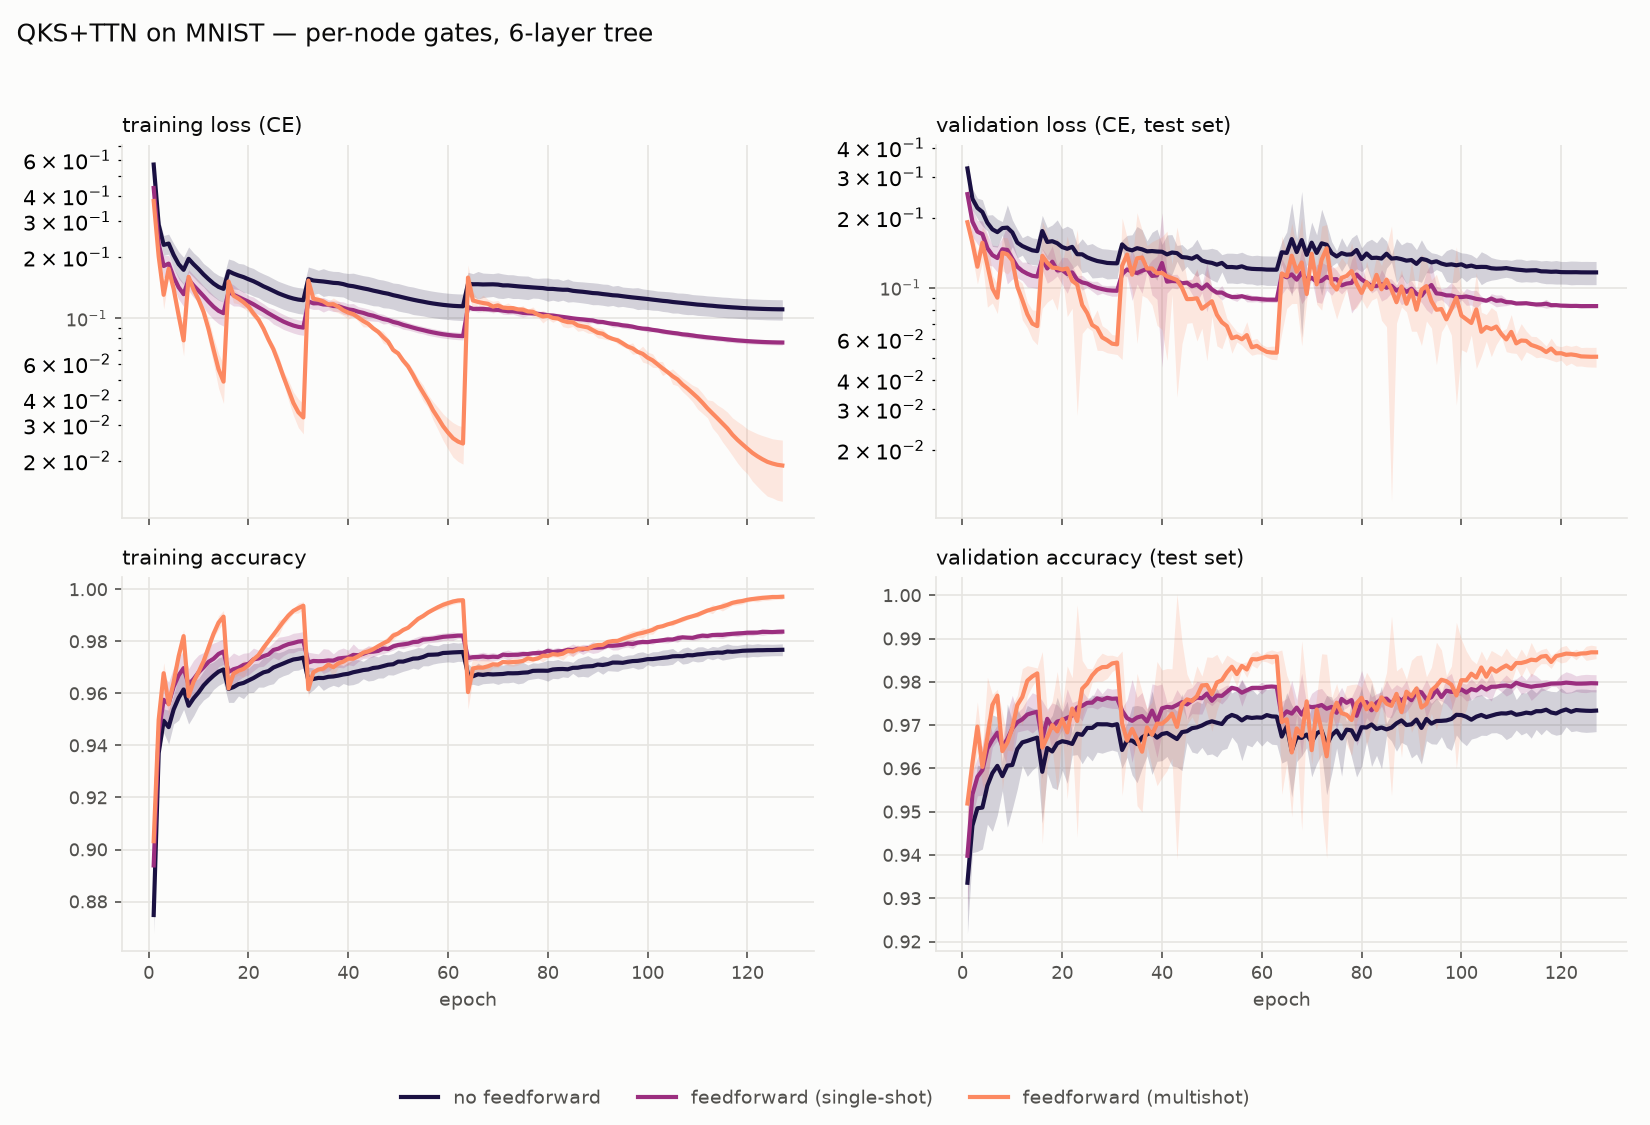
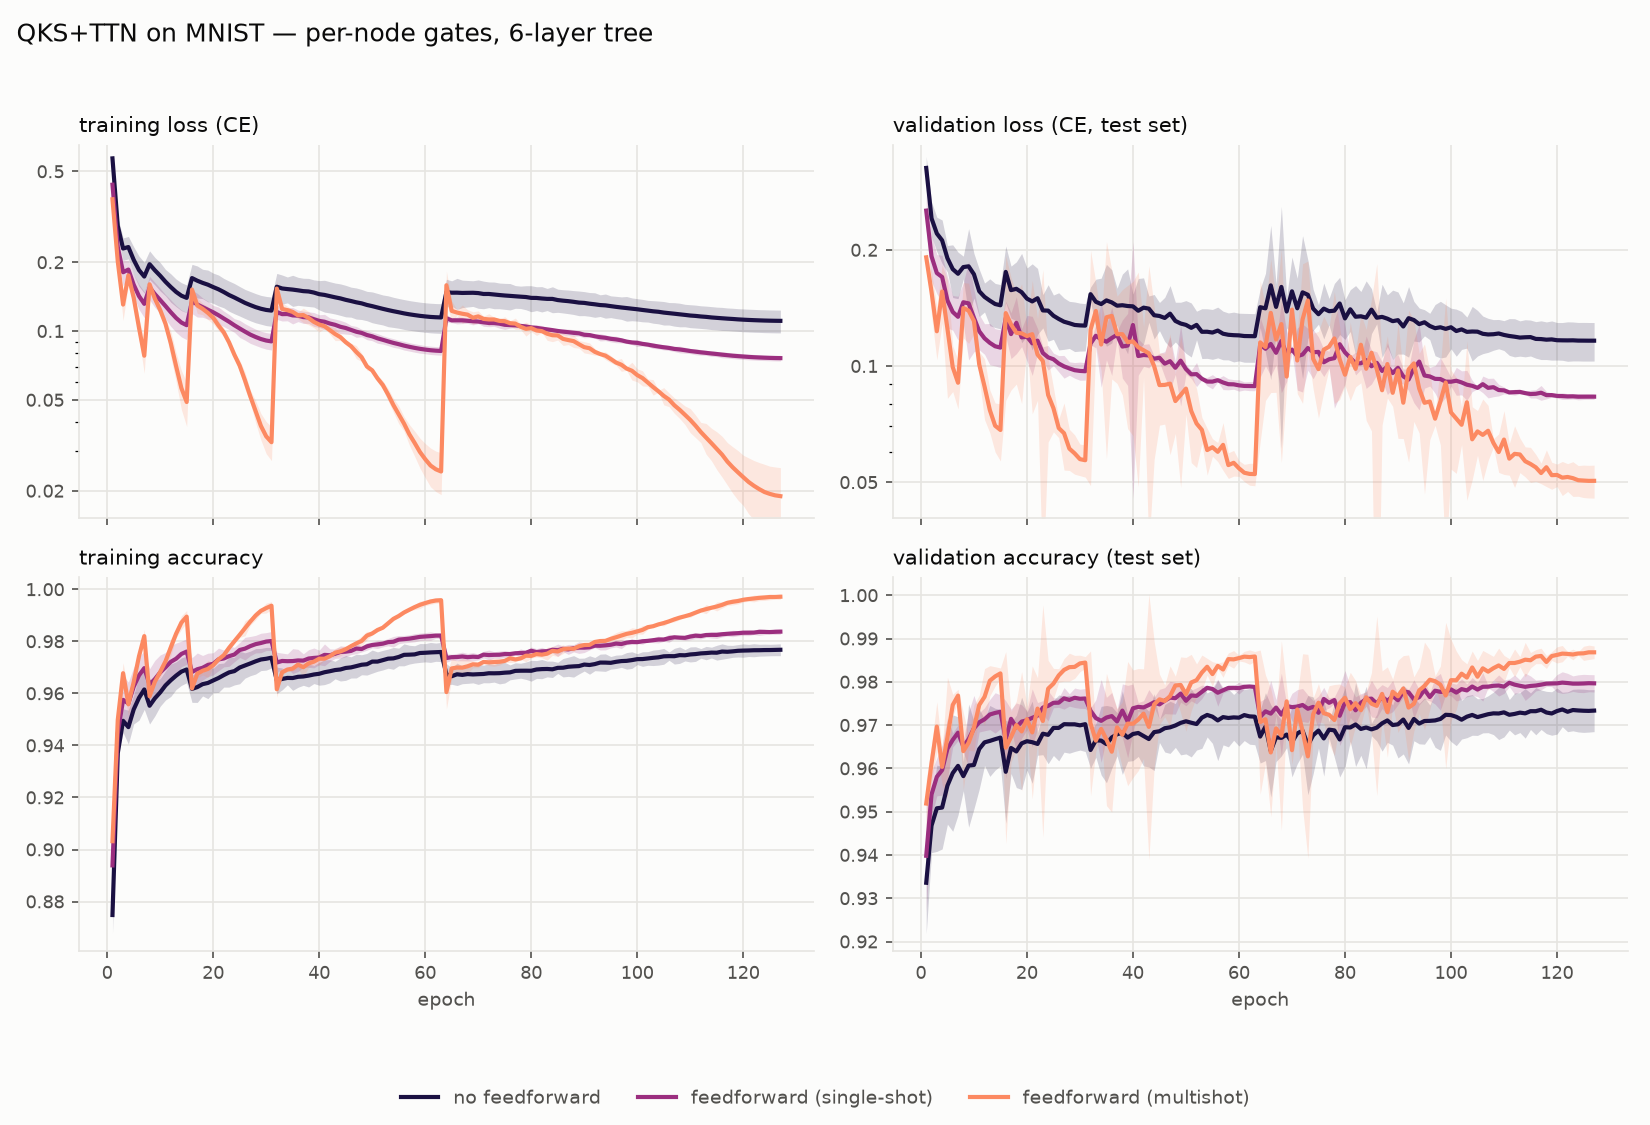
Loss panels: y-limits from the mean curves and 1-2-5 decimal log ticks (no more scientific-notation minor labels)

diff --git a/qks-tn-library/analyze_ff_runs.py b/qks-tn-library/analyze_ff_runs.py
@@ -233,6 +233,7 @@ def plot_curves(groups, out_prefix, facet_name, configs):
 
     matplotlib.use("Agg")
     import matplotlib.pyplot as plt
+    import matplotlib.ticker as mticker
     from scipy import stats as _st
 
     configs = [c for c in configs if c in groups]
@@ -255,6 +256,7 @@ def plot_curves(groups, out_prefix, facet_name, configs):
     handles = {}
     for ax, key, title in panels:
         ax.set_facecolor(surface)
+        mean_lo, mean_hi = np.inf, -np.inf
         for c in configs:
             color = facet_colors[c]
             curves = []
@@ -274,6 +276,7 @@ def plot_curves(groups, out_prefix, facet_name, configs):
                     ax.fill_between(epochs, mean - tcrit * sem, mean + tcrit * sem, color=color, alpha=0.18, lw=0)
                 (h,) = ax.plot(epochs, mean, color=color, lw=2.0, label=label(c))
                 handles[c] = h
+                mean_lo, mean_hi = min(mean_lo, float(mean.min())), max(mean_hi, float(mean.max()))
         ax.set_title(title, loc="left", fontsize=10, color=ink)
         ax.grid(True, color=grid, lw=0.8)
         ax.set_axisbelow(True)
@@ -284,6 +287,14 @@ def plot_curves(groups, out_prefix, facet_name, configs):
         ax.tick_params(colors=ink2, labelsize=8.5)
         if "loss" in key:
             ax.set_yscale("log")
+            if np.isfinite(mean_lo):
+                # limits from the mean curves (a single deep CI dip must not stretch the axis),
+                # ticks at 1-2-5 per decade with plain decimal labels
+                ax.set_ylim(0.8 * mean_lo, 1.15 * mean_hi)
+                ax.yaxis.set_major_locator(mticker.LogLocator(base=10, subs=(1.0, 2.0, 5.0), numticks=12))
+                ax.yaxis.set_major_formatter(mticker.FuncFormatter(lambda v, _: f"{v:g}"))
+                ax.yaxis.set_minor_locator(mticker.LogLocator(base=10, subs=np.arange(2, 10) / 10, numticks=12))
+                ax.yaxis.set_minor_formatter(mticker.NullFormatter())
     for ax in axes[1]:
         ax.set_xlabel("epoch", color=ink2, fontsize=9)
     tasks = sorted({r["cfg"]["task"] for c in configs for r in groups[c]})
